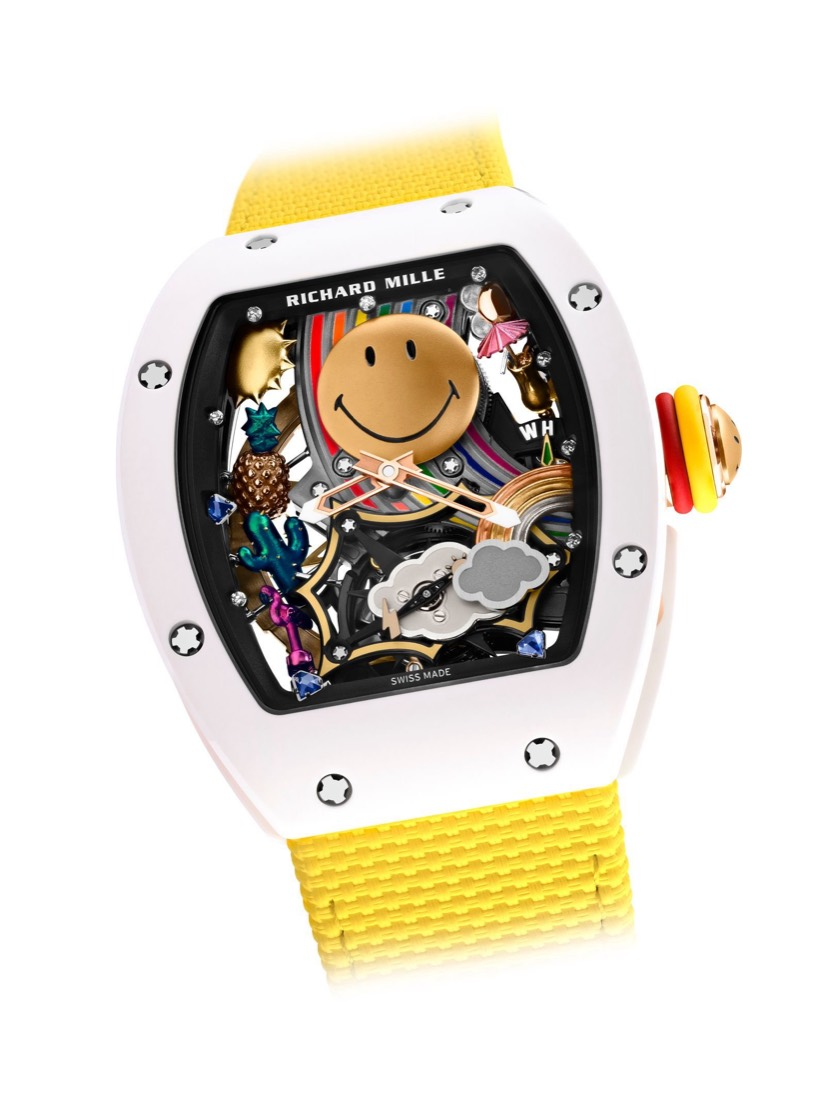
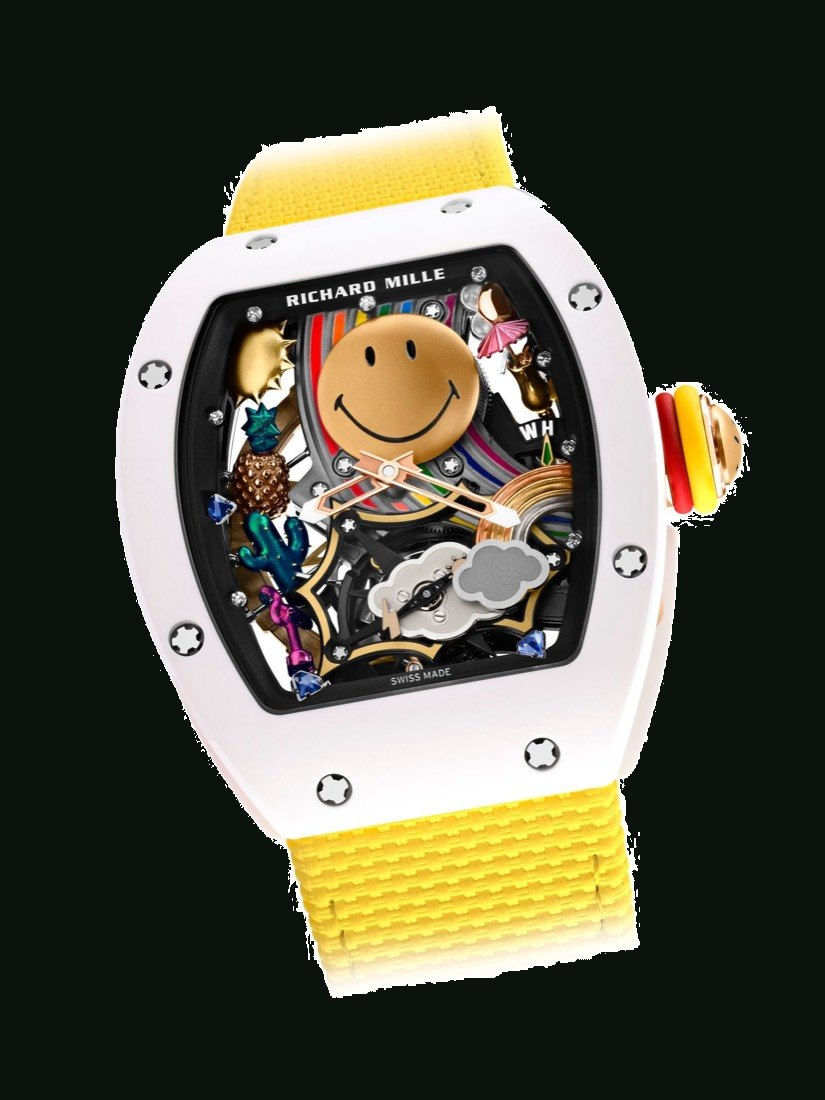
fix(identitaet): Uhren freigestellt, Preise korrigiert, Statuen entzerrt
Kevins vier Punkte aus dem Review:

1. Die weissen Kaesten bei Yacht-Master und RM 88 sind weg. Beide kamen als
   Pressefotos auf weissem Studio-Grund; sie stehen jetzt frei auf --ck-bg.
   Gerechnet im Browser-Canvas per Flood-Fill von den Bildraendern — auf
   diesem Mac gibt es weder ImageMagick noch PIL, und der Browser hat als
   einziger einen Bild-Decoder. Der Fill laeuft nur vom Rand, damit das
   weisse RM-Keramikgehaeuse verschont bleibt; beim ersten Versuch mit
   Schwelle 232 frass er Loecher hinein, mit 252 sitzt es. Bei der
   Yacht-Master ist zusaetzlich der Bodenschatten abgeschnitten.
2. Preise: Yacht-Master 10.500 EUR, Day-Date 55.000 EUR.
3. Die zwei Statuen standen unmittelbar hintereinander (Kapitel-Banner, dann
   Portraet). Jetzt liegen die beiden Spalten dazwischen — dieselbe Folge wie
   in der Vorlage, und der Visionstext bleibt zwischen Check-in und Board.
4. Die Yacht-Master ist damit JPEG statt PNG (freigestellt braucht kein
   Alpha mehr): Registry und Drift-Wache ziehen mit.

diff --git a/app/src/cockpit/components/identitaet/IdentitaetAnsicht.tsx b/app/src/cockpit/components/identitaet/IdentitaetAnsicht.tsx
@@ -136,6 +136,27 @@ export function IdentitaetAnsicht({
       <section className="ck-ident-abschnitt">
         {/* Der Visionstext steht zwischen Check-in und Board: die Brücke von
             „was tue ich heute" zu „wer wird davon". */}
+        {/* Erst das Verhalten, dann der Visionstext — dieselbe Folge wie in
+            der Vorlage. Sie hat auch den praktischen Grund: stünde der
+            Visionstext direkt unter dem Kapitel-Banner, kämen zwei Statuen
+            unmittelbar hintereinander. */}
+        <div className="ck-ident-zwei">
+          <Spalte titel="Die Soll-Version von mir" art="akzent">
+            <ul className="ck-ident-liste">
+              {VERHALTEN.map((v) => (
+                <li key={v.auftakt}>
+                  <b>{v.auftakt}:</b> {v.text}
+                </li>
+              ))}
+            </ul>
+          </Spalte>
+          <Spalte titel="Nie mehr" art="abgrenzung">
+            <Liste punkte={NICHT_MEHR} />
+            <h4 className="ck-ident-spalte-titel ck-ident-spalte-titel--zweit">Jeden Tag</h4>
+            <Liste punkte={JEDEN_TAG} />
+          </Spalte>
+        </div>
+
         <div className="ck-ident-bildtext">
           <img src={boardPfad(PORTRAET_BILD)} alt="" loading="lazy" decoding="async" />
           <div>
@@ -157,23 +178,6 @@ export function IdentitaetAnsicht({
               ))}
             </Aufklapper>
           </div>
-        </div>
-
-        <div className="ck-ident-zwei">
-          <Spalte titel="Die Soll-Version von mir" art="akzent">
-            <ul className="ck-ident-liste">
-              {VERHALTEN.map((v) => (
-                <li key={v.auftakt}>
-                  <b>{v.auftakt}:</b> {v.text}
-                </li>
-              ))}
-            </ul>
-          </Spalte>
-          <Spalte titel="Nie mehr" art="abgrenzung">
-            <Liste punkte={NICHT_MEHR} />
-            <h4 className="ck-ident-spalte-titel ck-ident-spalte-titel--zweit">Jeden Tag</h4>
-            <Liste punkte={JEDEN_TAG} />
-          </Spalte>
         </div>
       </section>
 

diff --git a/app/src/styles/cockpit.css b/app/src/styles/cockpit.css
@@ -1892,6 +1892,13 @@ button.ck-nav-item { background: none; font-family: inherit; cursor: pointer; te
 .ck-ident-board-grid--voll .ck-ident-bild { aspect-ratio: 1 / 1; }
 .ck-ident-board-grid--voll .ck-ident-bild img { object-fit: contain; padding: 10px; }
 
+/* Yacht-Master und RM 88 kamen als Pressefotos auf weißem Studio-Grund und
+   standen damit als helle Kästen in der dunklen Seite (Kevins Beanstandung
+   vom 16.08.). Beide sind jetzt auf --ck-bg freigestellt — gerechnet im
+   Browser-Canvas per Flood-Fill von den Bildrändern, weil auf diesem Mac
+   weder ImageMagick noch PIL vorhanden ist. Deshalb braucht hier keine
+   Kachel mehr eine Sonderbehandlung. */
+
 .ck-ident-karte-text {
   padding: 8px 2px 0;
   font-size: 12px;

diff --git a/app/src/cockpit/lib/visionboard.ts b/app/src/cockpit/lib/visionboard.ts
@@ -49,8 +49,8 @@ export const VISIONBOARD: BoardGruppe[] = [
     hinweis: 'aufsteigend nach Preis',
     vollstaendig: true,
     bilder: [
-      { datei: 'uhr-yachtmaster-126622.png', titel: 'Yacht-Master 40', notiz: 'der Daily · 12.700 €' },
-      { datei: 'uhr-rolex-daydate-228239.jpg', titel: 'Day-Date 40 Meteorit', notiz: 'Herzens-Uhr · 61.550 €' },
+      { datei: 'uhr-yachtmaster-126622.jpg', titel: 'Yacht-Master 40', notiz: 'der Daily · 10.500 €' },
+      { datei: 'uhr-rolex-daydate-228239.jpg', titel: 'Day-Date 40 Meteorit', notiz: 'Herzens-Uhr · 55.000 €' },
       {
         datei: 'uhr-ap-royaloak-26735SG.jpg',
         titel: 'Royal Oak Openworked Sandgold',

diff --git a/scripts/verify-identitaet.ts b/scripts/verify-identitaet.ts
@@ -249,7 +249,7 @@ check(
   'die Uhren stehen in Preisreihenfolge',
   uhren?.bilder.map((b) => b.datei),
   [
-    'uhr-yachtmaster-126622.png',
+    'uhr-yachtmaster-126622.jpg',
     'uhr-rolex-daydate-228239.jpg',
     'uhr-ap-royaloak-26735SG.jpg',
     'uhr-adg-honey-pearl.jpg',
